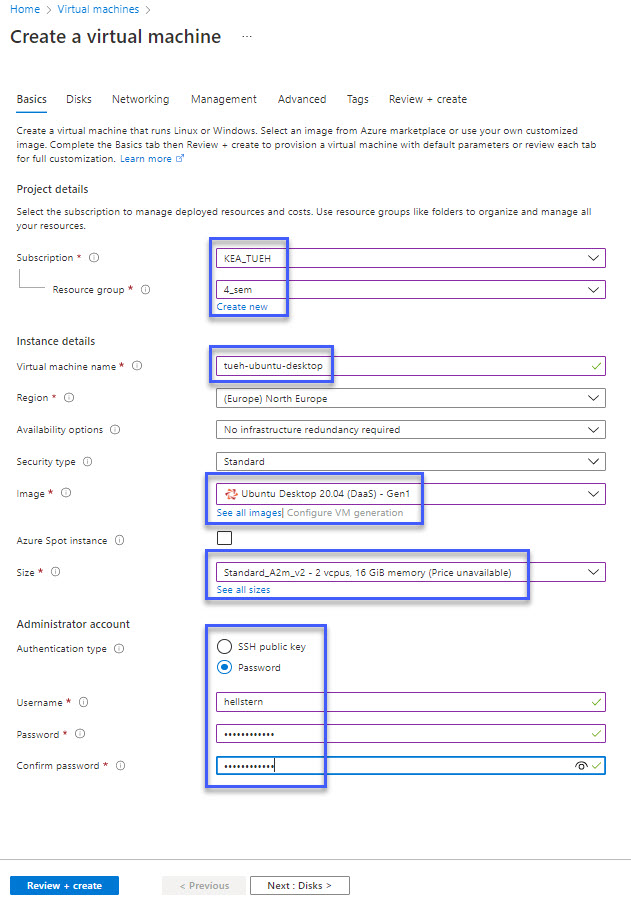
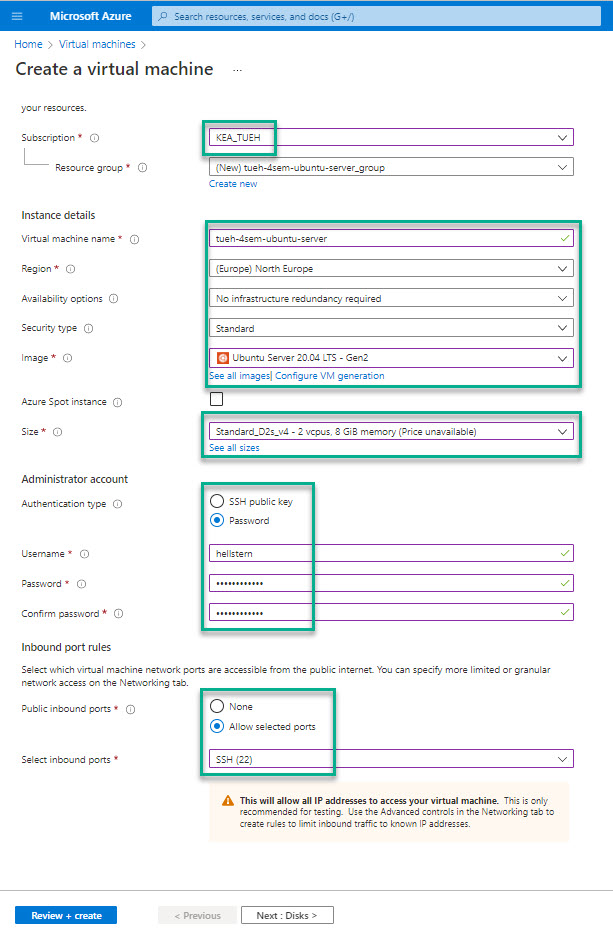
Div

Changed region(s): [[0.0, 0.0, 1.0, 0.9002], [0.0, 0.9313, 1.0, 0.9933]]

diff --git a/4sem/02-Virtualisering/Virtual_Machines.md b/4sem/02-Virtualisering/Virtual_Machines.md
@@ -1,11 +1,17 @@
-# Virtual Machines
+# Virtual Machine
+Azure Virtual Machines are image service instances that provide on-demand and scalable computing resources with usage-based pricing.
 
+More broadly, a virtual machine behaves like a server: It's a computer within a computer that provides the user the same experience they would have on the host operating system itself. In general, virtual machines are sandboxed from the rest of the system, meaning that the software inside a virtual machine can't escape or tamper with the underlying server itself.
 
+Each virtual machine provides its own virtual hardware including CPUs, memory, hard drives, network interfaces, and other devices.
+
+## Login Azure
 Login to: [https://portal.azure.com/](https://portal.azure.com/)
 
-- Virtual Machines
-- Create
-    - Virtual Machine
+# Create Virtual Machine
+You have to create a Virtual Machine running [Ubuntu](https://ubuntu.com/) Server.
+
+Click on **Virtual Machines** and then **Create** and the sub menu **Virtual Machine**
 
 ![](./image/vm_1.jpg)
 
@@ -26,36 +32,39 @@ Login to: [https://portal.azure.com/](https://portal.azure.com/)
 
 The Virtual Machine is now created and running
 
-## Connect
+*Check the servers public IP adresse your are going to use it. It is something like 14.54.45.255* 
 
-### Networking
+## Connect - SSH
+The **Secure Shell Protocol** (SSH) is a cryptographic network protocol for operating network services securely over an unsecured network.
 
+Its most notable applications are remote login and command-line execution.
 
-Now you have to connect from your local macine to the Virtal Machine
+SSH applications are based on a client–server architecture, connecting an SSH client instance with an SSH server.
 
-- Select **Connect** in the left menu
+## Windows - PuTTY
+On windows you can use a small program called PuTTY.
 
-![](./image/vm_4.jpg)
+Download and install it - [www.putty.org](https://www.putty.org/)
 
-- Select **RDP**
-- Download RDP File
+Now you can Open PuTTY and use it to connect to your Virtuel Machine.
 
-![](./image/vm_5.jpg)
+![](./image/putty_1.jpg)
 
-### Windows
-- Doubelt click on the RPD file
+Use the IP adresse of **your** Virtual Machine.
 
-![](./image/vm_6.jpg)
+PuTTY will open a terminal widow on your Virtual Machine.
 
-- Click: Opret forbindelse
+Use the Azure username and password to login:
 
-![](./image/vm_7.jpg)
+![](./image/putty_2.jpg)
 
-Login with the:
+## macOS
+On mac you don't need a program when you are using shh.
 
-- usernavne
-- password
+- Open a terminal
+- Type the ssh command
+    - ssh username@server_ip
+    - *like*
+    - ssh hellstern@12.13.45.255
 
-# Links
-- [Troubleshoot Remote Desktop connections to an Azure virtual machine](https://docs.microsoft.com/en-us/troubleshoot/azure/virtual-machines/troubleshoot-rdp-connection)
-
+Username is the Azure username, IP adresse and the password.

diff --git a/4sem/02-Virtualisering/Jupyter_Lab.md b/4sem/02-Virtualisering/Jupyter_Lab.md
@@ -1,14 +1,87 @@
 # Jupyter Lab
 Project Jupyter's tools are available for installation via the Python Package Index, the leading repository of software created for the Python programming language.
 
-This page uses instructions with pip, the recommended installation tool for Python.
+# Azure Virtual Machine - Ubuntu
 
-## Install
-Install JupyterLab with pip:
+## Python
+Let's test that Python3 is running on the Virtual Machine
 
-    pip install jupyterlab
+    sudo apt update
+    sudo apt -y upgrade
+    python3 -V
+    nano test.py
 
-Once installed, launch JupyterLab with:
+# Install Jupyter Lab
+You have to install Jupyter Lab on the Virtual Machine.
 
-    jupyter-lab
+    sudo pip3 install jupyterlab
+
+# JupyterLab Security
+You have to set the security on the Virtual Machine and on Jupyter Lab in order to access remote.
+
+**Firewall setup**
+    sudo ufw enable
+    sudo ufw allow 8888
+    sudo ufw allow 22
+    sudo ufw status
+
+Jupyter Notebook servers **can** include a password for security, to create a password, you first need to generate a config file:
+
+    jupyter server --generate-config
+
+Running this command creates a configuration file at the following location:
+
+    ~/.jupyter/jupyter_server_config.py
+
+Then enter the following command to create a server password:
+
+    jupyter server password
+
+*Remember this password!*
+
+After you enter a password a hashed version will be written to:
+
+    ~/.jupyter/jupyter_server_config.json
+    
+Now JupyterLab is secure and you will be able to log in with a password.
+
+# Start Jupyter Lab
+    jupyter lab --no-browser --ip "*"
+
+![](./image/jupyterlab_0.jpg)
+
+The jupyter lab command has a couple of important flags attached to it:
+
+- --no-browser → Tells the server not to open a browser - *we do not have a browser on the server :-)*
+- --ip "*" → Configures the notebook server to listen on all network interfaces and not just the default *localhost/127.0.0.1*
+
+# Access Jupyter Lab
+Open a browser on your local computer and go to:
+
+    <ip adresse for your VM>:8888
+
+    like
+
+    27.28.30.255:8888
+
+![](./image/jupyterlab_1.jpg)
+
+*Use the password you created before :-)*
+
+# Using Jupyter Lab
+Now you can start using your cloud Jupyter Lab server
+
+![](./image/jupyterlab_2.jpg)
+
+- Klik on Notebook - **Python3**
+- Write som markdown and Python code
+
+![](./image/jupyterlab_3.jpg)
+
+# Video
+- [What is Jupyter Notebook? | Jupyter Notebook Tutorial in Python](https://www.youtube.com/embed/q_BzsPxwLOE)
+- [5 awesome Jupyter Notebook features](https://www.youtube.com/embed/AUQT0MKpf6Y)
+
+
+
 

diff --git a/elective/Know your data/mindmap.md b/elective/Know your data/mindmap.md
@@ -9,6 +9,8 @@ Hvorfor er data vigtigt? - **JAN**
 ##### MySQL
 ##### Microsoft SQL Server
 
+#### API
+
 #### File formats
 ##### Excel
 ##### CSV
@@ -26,29 +28,53 @@ Hvorfor er data vigtigt? - **JAN**
 
 ### Load
 
+#### Data Warehouse
+
+##### OLAP
+##### Microsoft SQL SERVER
+
 #### Tools
 ##### Python
 ##### Excel / Power BI
 
-## Presentation (Dashboard)
-
-### Power BI
-#### Power View
-#### DAX
+### Automate
 #### Python
-
-### Python Dash
-
-### Flask
-
-### Jupyter Lab
+#### Excel / Excel VBA / Office Scripts
+#### Power Automate
 
 ## Economic
 
 ### What to show in a Dashboard?
 ### KPI
 
-## Machine Learning
+## AI and Machine Learning (ML) models
 
 ### Data what?
 ### Predictions
+
+## Presentation (Dashboard)
+
+### Azure Data Explorer
+### Power BI
+#### Power Query
+#### DAX
+#### Python
+
+### Python Dash
+
+### Python Flask
+
+### Jupyter Lab
+#### MITO
+
+
+
+# Examen
+
+# Link
+https://docs.microsoft.com/en-us/azure/data-explorer/azure-data-explorer-dashboards
+
+https://docs.microsoft.com/en-us/azure/data-explorer/viz-overview
+
+https://support.microsoft.com/da-dk/office/oversigt-over-onlineanalysebehandling-olap-15d2cdde-f70b-4277-b009-ed732b75fdd6
+

diff --git a/4sem/02-Virtualisering/oversigt.md b/4sem/02-Virtualisering/oversigt.md
@@ -1,0 +1,10 @@
+# Overview
+
+## Azure Virtual Machine
+### Ubuntu
+### Python
+### Jupyter Lab
+
+## MySQL Server
+
+## Dash App
